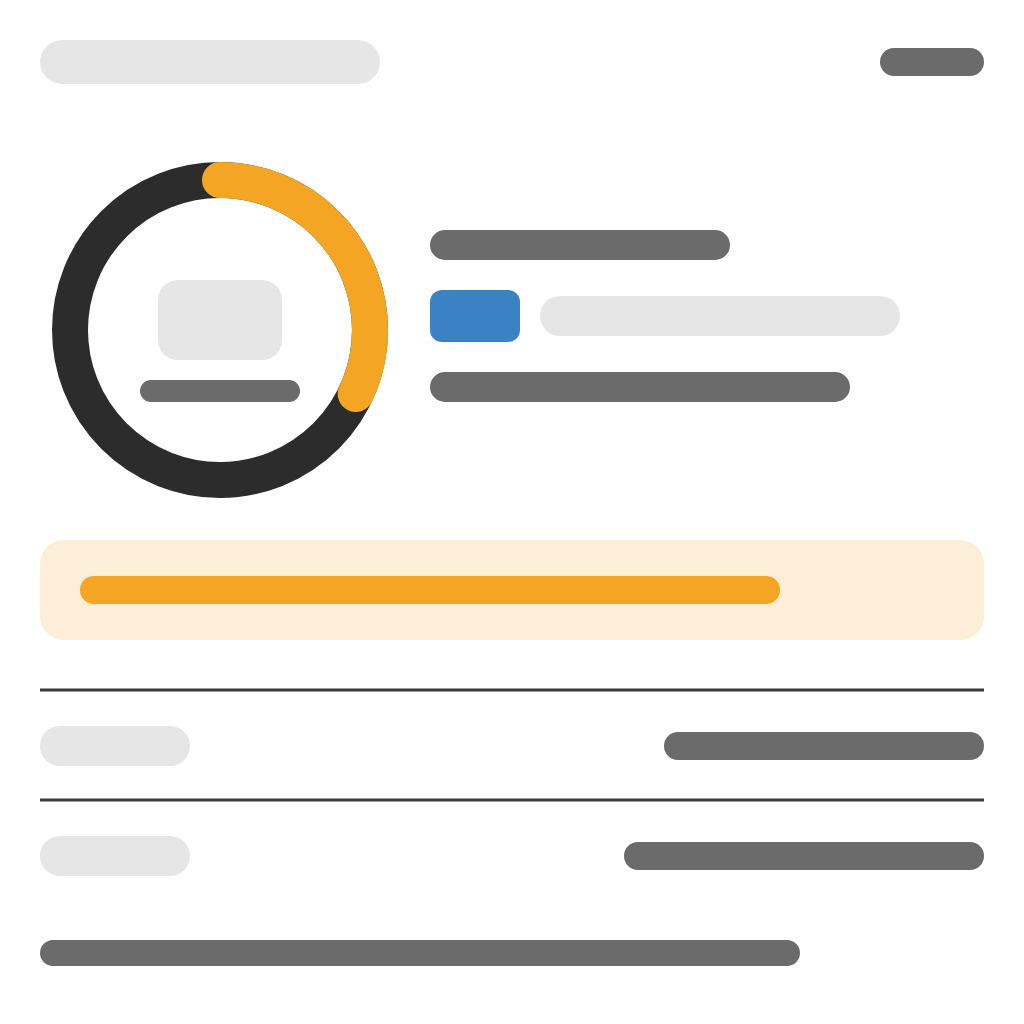
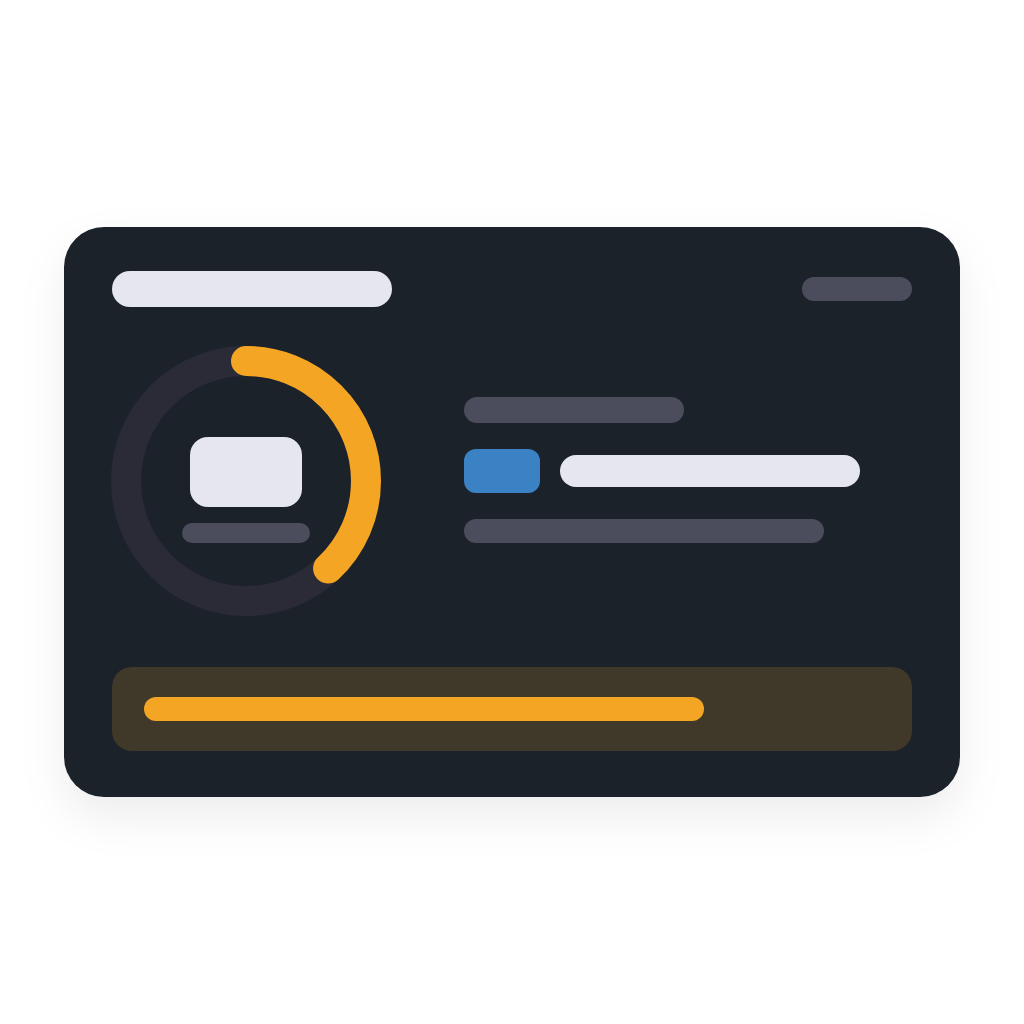
Trafikkollen 1.2.2: widget previews in Athom's template style
Transparent canvas, template card (896 px, radius 40, soft shadow), no text,
small palette, light and dark for all seven widgets. Generator in tools/.

diff --git a/tools/widget-previews.py b/tools/widget-previews.py
@@ -1,0 +1,115 @@
+# Draws the widget preview images in the style of Athom's Figma "widget previews template" (card 896 px wide,
+# radius 40, soft shadow, transparent canvas). Usage: python3 tools/widget-previews.py <out-dir>, then render each
+# HTML file at 1024x1024 with a transparent background (e.g. headless Chromium --default-background-color=00000000).
+import sys, math
+out = sys.argv[1]
+# Athom's template: card 896 wide at x=64, radius 40, soft shadow below, white / #1F2029, transparent canvas
+X0, W = 64, 896
+BLUE, PURPLE, GREEN, ORANGE, RED, TEAL = '#3b82c4', '#8b5cf6', '#30a46c', '#f5a524', '#e5484d', '#0891b2'
+
+def theme(dark):
+    return dict(card='#1F2029' if dark else '#FFFFFF', ink='#E6E6EE' if dark else '#2B2B35', mute='#4C4D5C' if dark else '#CDCDD8',
+                soft='#2A2B37' if dark else '#F1F1F6', line='#33343F' if dark else '#ECECF2')
+
+def bar(x, y, w, h, fill, r=None):
+    return f'<rect x="{x}" y="{y}" width="{w}" height="{h}" rx="{h/2 if r is None else r}" fill="{fill}"/>'
+
+def page(height, body, c):
+    y0 = (1024 - height) / 2
+    return f'''<!doctype html><html><head><style>html,body{{margin:0;background:transparent}}</style></head><body>
+<svg xmlns="http://www.w3.org/2000/svg" width="1024" height="1024" viewBox="0 0 1024 1024">
+<defs><filter id="sh" x="-20%" y="-20%" width="140%" height="160%"><feDropShadow dx="0" dy="20" stdDeviation="22" flood-color="#000" flood-opacity="0.07"/></filter>
+<clipPath id="cardclip"><rect x="{X0}" y="{y0}" width="{W}" height="{height}" rx="40"/></clipPath></defs>
+<rect x="{X0}" y="{y0}" width="{W}" height="{height}" rx="40" fill="{c['card']}" filter="url(#sh)"/>
+<g clip-path="url(#cardclip)"><g transform="translate({X0} {y0})">{body}</g></g></svg></body></html>'''
+
+def header(c, w1=300):
+    return bar(48, 44, w1, 36, c['ink']) + bar(W - 48 - 110, 50, 110, 24, c['mute'])
+
+# --- widgets (coordinates inside the card, card width 896) ---
+def board(c):
+    s = header(c)
+    for i, (badge, l, t) in enumerate([(BLUE, 420, GREEN), (PURPLE, 360, None), (BLUE, 470, ORANGE), (PURPLE, 330, None)]):
+        y = 130 + i * 112
+        if i: s += f'<line x1="48" y1="{y-26}" x2="{W-48}" y2="{y-26}" stroke="{c["line"]}" stroke-width="3"/>'
+        s += bar(48, y, 84, 48, badge, 12) + bar(156, y + 8, l, 32, c['ink']) + bar(156, y + 50, l * 0.55, 20, c['mute'])
+        s += bar(W - 48 - 120, y + 4, 120, 40, c['ink']) + (bar(W - 48 - 90, y + 54, 90, 18, t) if t else '')
+    return 580, s
+
+def nearby(c):
+    s = header(c, 260)
+    y = 120
+    for g in range(2):
+        s += bar(48, y, 220, 26, c['mute']) ; y += 54
+        for k, badge in enumerate([BLUE, GREEN] if g == 0 else [PURPLE, BLUE]):
+            s += bar(48, y, 76, 44, badge, 12) + bar(148, y + 7, 380 - k * 60, 30, c['ink']) + bar(W - 48 - 110, y + 4, 110, 36, c['ink'])
+            y += 76
+        y += 24
+    return 560, s
+
+def commute(c):
+    s = header(c, 340)
+    for i, best in enumerate([True, False]):
+        x = 48 + i * 412
+        s += f'<rect x="{x}" y="116" width="388" height="170" rx="24" fill="{c["soft"]}"' + (f' stroke="{BLUE}" stroke-width="6"' if best else '') + '/>'
+        s += bar(x + 28, 144, 150, 22, c['mute']) + bar(x + 28, 182, 170, 44, c['ink']) + bar(x + 28, 242, 260, 20, c['mute'])
+    for i, (b1, b2) in enumerate([(GREEN, BLUE), (GREEN, PURPLE), (GREEN, BLUE)]):
+        y = 340 + i * 112
+        if i: s += f'<line x1="48" y1="{y-24}" x2="{W-48}" y2="{y-24}" stroke="{c["line"]}" stroke-width="3"/>'
+        s += bar(48, y, 120, 40, c['ink']) + bar(48, y + 52, 90, 18, GREEN if i == 0 else c['mute'])
+        s += bar(200, y + 2, 64, 36, b1, 10) + bar(280, y + 8, 220, 26, c['ink']) + bar(200, y + 50, 64, 30, b2, 10) + bar(280, y + 54, 260, 22, c['mute'])
+        s += bar(W - 48 - 120, y, 120, 40, c['ink'])
+    s += ''.join(f'<rect x="{48 + k*270}" y="690" width="246" height="56" rx="28" fill="{c["soft"]}"/><circle cx="{80 + k*270}" cy="718" r="11" fill="{[GREEN, GREEN, ORANGE][k]}"/>' + bar(104 + k*270, 708, 150, 20, c['ink']) for k in range(3))
+    return 800, s
+
+def leave(c):
+    r = 120; circ = 2 * math.pi * r; cx, cy = 48 + r + 14, 120 + r + 14
+    s = header(c, 280)
+    s += f'<circle cx="{cx}" cy="{cy}" r="{r}" fill="none" stroke="{c["soft"]}" stroke-width="30"/>'
+    s += f'<circle cx="{cx}" cy="{cy}" r="{r}" fill="none" stroke="{ORANGE}" stroke-width="30" stroke-linecap="round" stroke-dasharray="{circ:.1f}" stroke-dashoffset="{circ*0.62:.1f}" transform="rotate(-90 {cx} {cy})"/>'
+    s += bar(cx - 56, cy - 44, 112, 70, c['ink'], 18) + bar(cx - 64, cy + 42, 128, 20, c['mute'])
+    s += bar(400, 170, 220, 26, c['mute']) + bar(400, 222, 76, 44, BLUE, 12) + bar(496, 228, 300, 32, c['ink']) + bar(400, 292, 360, 24, c['mute'])
+    s += f'<rect x="48" y="440" width="{W-96}" height="84" rx="20" fill="{ORANGE}" fill-opacity=".16"/>' + bar(80, 470, 560, 24, ORANGE)
+    return 570, s
+
+def cameras(c):
+    s = ''
+    tw, th = (W - 48*2 - 24) / 2, 220
+    for i in range(4):
+        x = 48 + (i % 2) * (tw + 24); y = 44 + (i // 2) * (th + 24)
+        frame = RED if i == 1 else None
+        s += f'<clipPath id="t{i}"><rect x="{x}" y="{y}" width="{tw}" height="{th}" rx="22"/></clipPath><g clip-path="url(#t{i})">'
+        s += f'<rect x="{x}" y="{y}" width="{tw}" height="{th}" fill="{c["soft"]}"/>'
+        s += f'<rect x="{x}" y="{y}" width="{tw}" height="{th*0.42}" fill="{BLUE}" fill-opacity=".28"/>'
+        s += f'<path d="M{x+tw*0.30} {y+th} L{x+tw*0.47} {y+th*0.42} L{x+tw*0.55} {y+th*0.42} L{x+tw*0.78} {y+th} Z" fill="{c["mute"]}"/>'
+        s += f'<path d="M{x+tw*0.53} {y+th} L{x+tw*0.51} {y+th*0.42} L{x+tw*0.515} {y+th*0.42} L{x+tw*0.56} {y+th} Z" fill="{ORANGE}"/>'
+        s += bar(x + 20, y + th - 48, 170, 24, c['ink']) + '</g>'
+        if frame:
+            s += f'<rect x="{x+3}" y="{y+3}" width="{tw-6}" height="{th-6}" rx="20" fill="none" stroke="{frame}" stroke-width="8"/>' + bar(x + 20, y + 20, 200, 34, frame, 10)
+    return 2 * th + 24 + 88, s
+
+def ferry(c):
+    s = header(c, 260)
+    s += f'<rect x="48" y="116" width="{W-96}" height="72" rx="18" fill="{RED}" fill-opacity=".14"/>' + bar(80, 140, 480, 24, RED)
+    for i in range(2):
+        x = 48 + i * 412
+        s += f'<rect x="{x}" y="216" width="388" height="296" rx="24" fill="{c["soft"]}"/>' + bar(x + 28, 244, 180, 22, c['mute'])
+        for k in range(3):
+            y = 292 + k * 70
+            s += bar(x + 28, y, 130, 40, c['ink']) + bar(x + 388 - 28 - 110, y + 10, 110, 22, TEAL if k == 0 else c['mute'])
+    return 560, s
+
+def usage(c):
+    s = header(c, 320)
+    s += bar(48, 130, 380, 34, c['ink'])
+    s += bar(48, 190, W - 96, 30, c['soft']) + bar(48, 190, (W - 96) * 0.58, 30, BLUE)
+    for k, l in enumerate([300, 360, 420]):
+        s += bar(48, 262 + k * 50, l, 24, c['mute'])
+    return 460, s
+
+for name, fn in dict(board=board, nearby=nearby, commute=commute, leave=leave, cameras=cameras, ferry=ferry, usage=usage).items():
+    for th in ('light', 'dark'):
+        c = theme(th == 'dark')
+        h, body = fn(c)
+        open(f'{out}/{name}-{th}.html', 'w').write(page(h, body, c))
+print('ok')
